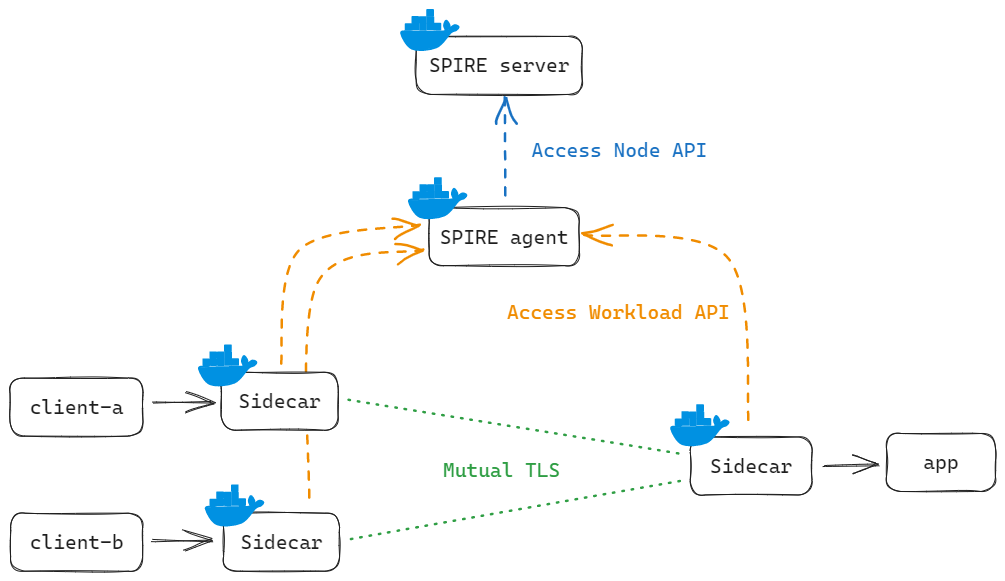
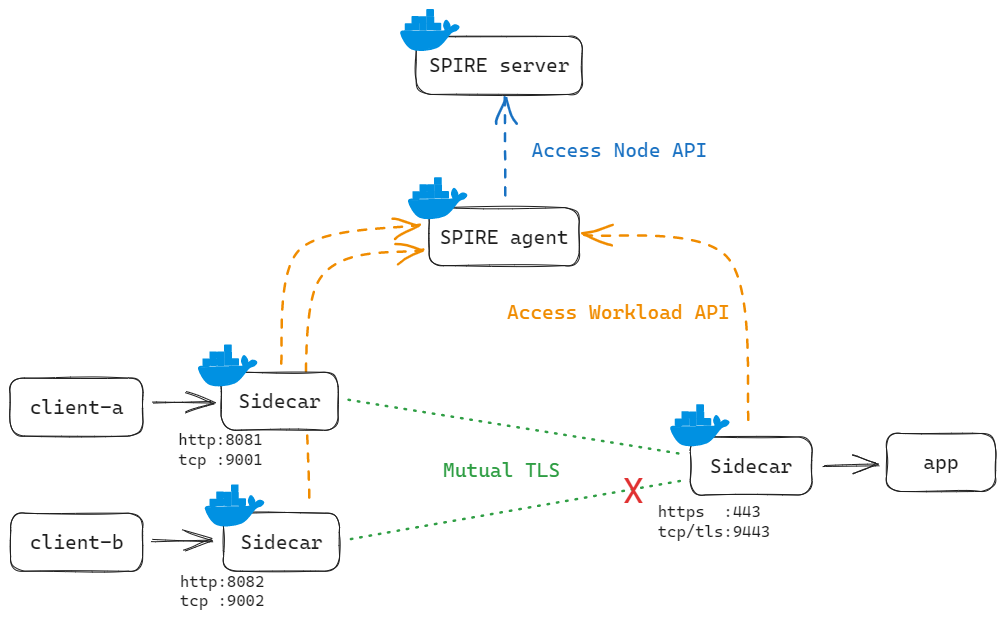
spiffe-sidecar: edits to README

diff --git a/spiffe-sidecar/README.md b/spiffe-sidecar/README.md
@@ -5,10 +5,13 @@ This repo showcases the use of NGINX as a SPIFFE sidecar, enabling workloads to 
 ![sidecar](./docs/img/sidecar.png)
 
 The sidecar performs the following:
-- uses [SPIFFE Helper](https://github.com/spiffe/spiffe-helper) to periodically retrieve [SPIFFE Verifiable Identity Document (SVID)](https://spiffe.io/docs/latest/spiffe-about/spiffe-concepts/#spiffe-verifiable-identity-document-svid) in the form of x509 certificates
-- uses NGINX to load the above x509-SVID for establishing mutual TLS connections between client and app, as well as to perform authorization based on the DNS name/SPIFFE ID
+- uses [SPIFFE Helper](https://github.com/spiffe/spiffe-helper) to periodically retrieve [SPIFFE Verifiable Identity Document (SVID)](https://spiffe.io/docs/latest/spiffe-about/spiffe-concepts/#spiffe-verifiable-identity-document-svid) in the form of x509 certificates,
+- uses NGINX to load the above x509-SVID for establishing mutual TLS connections between `clients` and `app`,
+- uses [NGINX Javascript (njs)](https://nginx.org/en/docs/njs/) to perform authorization based on the DNS name/SPIFFE ID with a combination of [ssl_*](http://nginx.org/en/docs/http/ngx_http_ssl_module.html)/[proxy_ssl_*](http://nginx.org/en/docs/http/ngx_http_proxy_module.html) directives and a [spiffe.js](./docker/workload/app/njs/spiffe.js) njs script.
 
 ## Demo
+
+This demo shows `app` SPIFFE sidecar allowing `client-a` to access the `app`, by checking `client-a`'s SPIFFE ID against an allow list defined in the [spiffe.js](./docker/workload/app/njs/spiffe.js) njs script. All other SPIFFE IDs will be blocked.
 
 ![setup](./docs/img/setup.png)
 
@@ -40,30 +43,54 @@ export AGENT_SPIFFE_ID="<SPIFFE ID retrieved from previous step>"
 
 Next, register the `app` and `client-a` workloads on the SPIRE server with the following scripts:
 ```
-./scripts/register-app.sh
-./scripts/register-client-a.sh
+$ ./scripts/register-app.sh
+Entry ID         : 3626a644-9b7e-4795-b4de-6e92d9787339
+SPIFFE ID        : spiffe://example.org/app
+Parent ID        : spiffe://example.org/spire/agent/x509pop/e33b934b6742854938895a358e62dd398d9261e9
+Revision         : 0
+X509-SVID TTL    : 10
+JWT-SVID TTL     : default
+Selector         : docker:label:com.example.name:app
+DNS name         : app.example.com
+
+$ ./scripts/register-client-a.sh
+Entry ID         : 22e81a13-416f-42fd-8814-228010acfcca
+SPIFFE ID        : spiffe://example.org/client-a
+Parent ID        : spiffe://example.org/spire/agent/x509pop/e33b934b6742854938895a358e62dd398d9261e9
+Revision         : 0
+X509-SVID TTL    : 10
+JWT-SVID TTL     : default
+Selector         : docker:label:com.example.name:client-a
 ```
 
-Allow up to a minute for the SVID to be picked up by SPIFFE Helper and loaded by NGINX with the `proxy_ssl_*` and `ssl_*` directives, then send a HTTP request against `localhost:8081` which is mapped to `client-a:80`:
+Allow up to a minute for the SVID to be picked up by SPIFFE Helper and loaded by NGINX, then send a HTTP request against `localhost:8081` which is mapped to port `80` on the `client-a` sidecar:
 ```
 $ curl localhost:8081
 OK
 ```
 
-TCP stream is also supported on port `9001`, which maps to `client-a:9000`:
+TCP stream is also supported on port `9001`, which maps to port `9000` on the `client-a` sidecar:
 ```
 $ nc -w1 localhost 9001
 ok
 ```
 
-## Negative test
+---
+### Negative test
 
-To verify that NGINX is validating the client SPIFFE ID, register the second client `client-b` with a SPIFFE ID not in the allow list stored in the [spiffe.js](./docker/workload/app/njs/spiffe.js) NJS script:
+To verify that NGINX is validating the client SPIFFE ID, register the second client `client-b` with a SPIFFE ID not in the allow list:
 ```
-./scripts/register-client-b.sh
+$ ./scripts/register-client-b.sh
+Entry ID         : aac3577a-2897-4848-9299-9cd57dfb2674
+SPIFFE ID        : spiffe://example.org/client-b
+Parent ID        : spiffe://example.org/spire/agent/x509pop/e33b934b6742854938895a358e62dd398d9261e9
+Revision         : 0
+X509-SVID TTL    : 10
+JWT-SVID TTL     : default
+Selector         : docker:label:com.example.name:client-b
 ```
 
-Allow up to a minute for the SVID to be picked up by SPIFFE Helper and loaded by NGINX, then send a HTTP request against `localhost:8082` which maps to `client-b:80`:
+Allow up to a minute for the SVID to be picked up by SPIFFE Helper and loaded by NGINX, then send a HTTP request against `localhost:8082`, mapped to port `80` on the `client-b` sidecar:
 ```
 $ curl localhost:8082
 <html>
@@ -75,7 +102,7 @@ $ curl localhost:8082
 </html>
 ```
 
-Testing against the TCP proxy at `localhost:9001`, which maps to `client-b:9000`, should not return anything:
+Testing against the TCP proxy at `localhost:9001`, which maps to port `9000` on the `client-b` sidecar:, should not return anything:
 ```
 $ nc -w1 localhost 9002
 $
